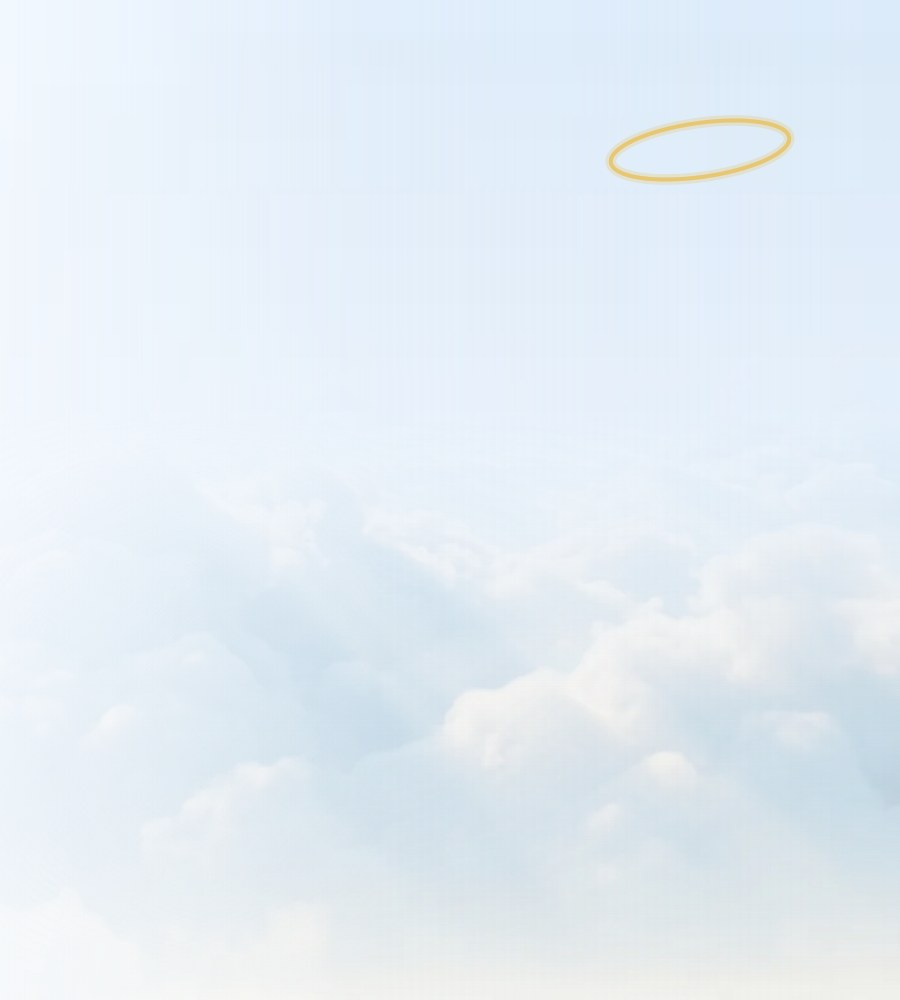
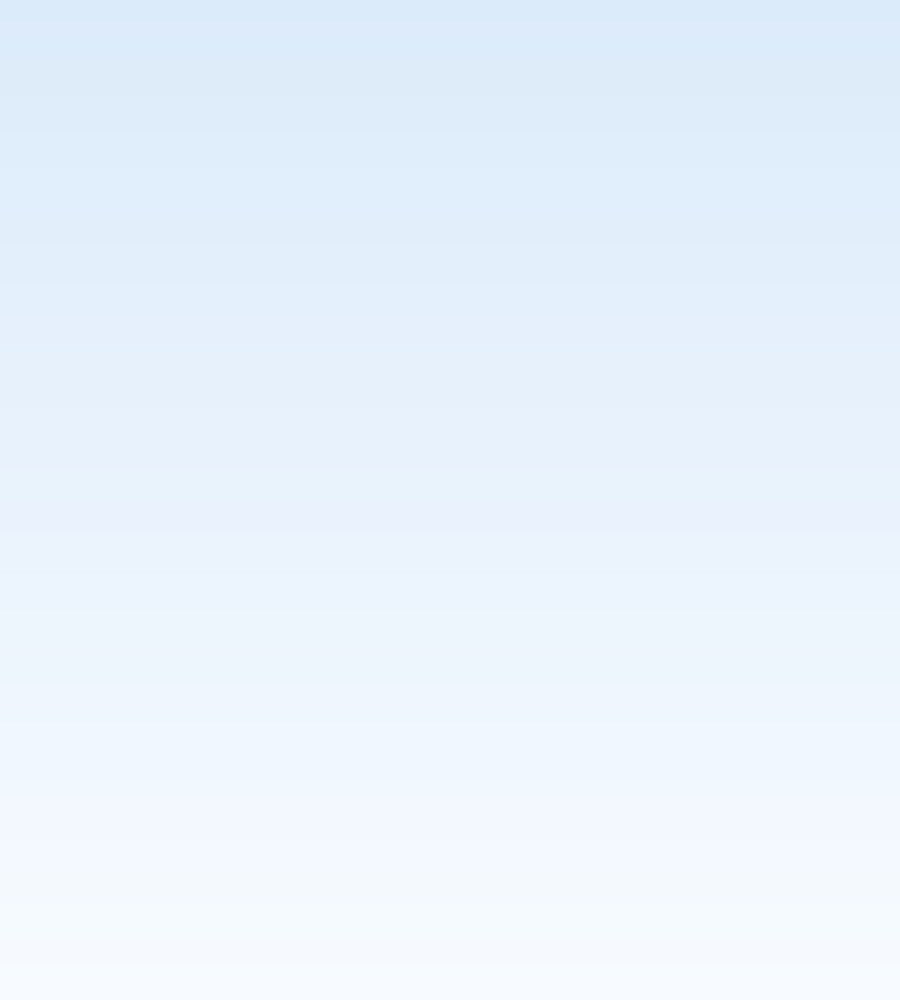
Loja v3.2: header em 1 linha, slots vazios pro Higgsfield, projetos com foto+link
- CSS v3.2: header desktop em uma linha (logo + busca + menu + icones)
- Assets: hero e banner Impacto vazios (gradiente céu limpo) até as
  fotos definitivas do Higgsfield (decisão do dono no preview)
- pagina-projetos-sociais.html: nomes viram links pros sites oficiais
  (fazenda.org.br / caritas.org.br / pequenocotolengo.org.br — conferir)
  + slots de foto comentados pra subir no editor
- instrucoes v3.2 + passo do Cowork pra republicar a página

Claude-Session: https://claude.ai/code/session_01UBDKhBAM1rZA7wjxvuNsf3

Changed region(s): [[0.3111, 0.62, 1.0, 0.93], [0.6533, 0.093, 0.9022, 0.186], [0.4978, 0.62, 0.5289, 0.651]]

diff --git a/nuvemshop/css-nimbus.css b/nuvemshop/css-nimbus.css
@@ -1,7 +1,10 @@
 /* ==========================================================================
-   NIMBUS x NUVEMSHOP (TEMA MORELIA) — CSS v3.1
+   NIMBUS x NUVEMSHOP (TEMA MORELIA) — CSS v3.2
    Colar em: Loja online > Layout > Personalizar > Edicao de CSS avancada
 
+   v3.2: header em UMA linha (logo + busca + menu + conta/carrinho) no
+   desktop; hero e banner de impacto ficam vazios (gradiente) ate as
+   fotos do Higgsfield.
    v3.1: header sem linha entre a faixa do logo e a do menu (sombra unica),
    logo a ESQUERDA (defina tambem no editor: Layout > Cabecalho > posicao
    do logo = esquerda), barra de servicos mais elegante (uppercase
@@ -353,6 +356,39 @@ a.btn-secondary:empty {
 .head-main [class*="logo-container"] {
   text-align: left;
   justify-content: flex-start;
+}
+
+/* v3.2: header em UMA linha no desktop — logo + busca + menu + icones.
+   Se o editor do Morelia tiver a opcao "menu ao lado do logo", PREFIRA
+   ela e mantenha estas regras como reforco. A estrutura interna varia
+   por versao do tema; se algo desalinhar, me mande print que eu ajusto. */
+@media (min-width: 992px) {
+  .head-main {
+    display: flex;
+    align-items: center;
+    flex-wrap: nowrap;
+    gap: 28px;
+    padding-left: 28px;
+    padding-right: 28px;
+  }
+  .head-main > * {
+    flex: 0 0 auto;
+  }
+  .head-main nav,
+  .head-main [class*="desktop-nav"] {
+    flex: 1 1 auto;
+    min-width: 0;
+  }
+  .head-main .nav-list,
+  .head-main nav ul,
+  .head-main [class*="nav-list"] {
+    display: flex;
+    align-items: center;
+    justify-content: center;
+    gap: 26px;
+    flex-wrap: nowrap;
+    margin: 0;
+  }
 }
 
 .head-main .logo img,

diff --git a/nuvemshop/pagina-projetos-sociais.html b/nuvemshop/pagina-projetos-sociais.html
@@ -1,3 +1,8 @@
+<!-- v3.2 — FOTOS E LINKS DOS PROJETOS:
+     1) Os nomes dos projetos agora sao LINKS pros sites oficiais (abrem em nova aba).
+        Confirme os enderecos antes de publicar: fazenda.org.br | caritas.org.br | pequenocotolengo.org.br
+     2) Cada card tem um slot de FOTO comentado. Salve uma foto oficial do site do projeto,
+        suba pelo editor de paginas da Nuvemshop (icone de imagem) e descomente/ajuste a linha. -->
 <p style="font-size:1.05em; color:#1b2733;">Toda peça NIMBUS deixa algo além da roupa. Em cada pedido, 10% do lucro vai para um projeto social, e quem escolhe é você, no checkout. Nesta página, você conhece quem recebe: Fazenda da Esperança, Cáritas Brasileira e Pequeno Cotolengo.</p>
 
 <h2 style="color:#0b2360;">Como funciona</h2>
@@ -12,17 +17,20 @@
 <h2 style="color:#0b2360;">Os projetos</h2>
 
 <div style="background:#f7fbff; border:1px solid #dcebfa; border-left:4px solid #e9c46a; border-radius:8px; padding:20px 24px; margin:16px 0;">
-  <h3 style="color:#0b2360; margin-top:0;">Fazenda da Esperança</h3>
+  <!-- <img src="URL_DA_FOTO_AQUI" alt="Fazenda da Esperança" style="width:100%; border-radius:8px; margin:0 0 14px;"> -->
+  <h3 style="color:#0b2360; margin-top:0;"><a href="https://fazenda.org.br" target="_blank" rel="noopener" style="color:#0b2360; text-decoration:underline; text-decoration-color:#e9c46a; text-underline-offset:4px;">Fazenda da Esperança</a> <span style="font-size:0.75em;">&#8599;</span></h3>
   <p style="margin-bottom:0;">Comunidade católica dedicada à recuperação de dependentes químicos. Nasceu em Guaratinguetá, no interior de São Paulo, e hoje está presente no Brasil inteiro. O caminho proposto une trabalho, convivência e espiritualidade, devolvendo dignidade a quem recomeça.</p>
 </div>
 
 <div style="background:#f7fbff; border:1px solid #dcebfa; border-left:4px solid #e9c46a; border-radius:8px; padding:20px 24px; margin:16px 0;">
-  <h3 style="color:#0b2360; margin-top:0;">Cáritas Brasileira</h3>
+  <!-- <img src="URL_DA_FOTO_AQUI" alt="Cáritas Brasileira" style="width:100%; border-radius:8px; margin:0 0 14px;"> -->
+  <h3 style="color:#0b2360; margin-top:0;"><a href="https://caritas.org.br" target="_blank" rel="noopener" style="color:#0b2360; text-decoration:underline; text-decoration-color:#e9c46a; text-underline-offset:4px;">Cáritas Brasileira</a> <span style="font-size:0.75em;">&#8599;</span></h3>
   <p style="margin-bottom:0;">Organismo da CNBB, a Conferência Nacional dos Bispos do Brasil. É uma rede de solidariedade que atua com populações vulneráveis em todo o país, da assistência emergencial ao trabalho de base nas comunidades.</p>
 </div>
 
 <div style="background:#f7fbff; border:1px solid #dcebfa; border-left:4px solid #e9c46a; border-radius:8px; padding:20px 24px; margin:16px 0;">
-  <h3 style="color:#0b2360; margin-top:0;">Pequeno Cotolengo</h3>
+  <!-- <img src="URL_DA_FOTO_AQUI" alt="Pequeno Cotolengo" style="width:100%; border-radius:8px; margin:0 0 14px;"> -->
+  <h3 style="color:#0b2360; margin-top:0;"><a href="https://pequenocotolengo.org.br" target="_blank" rel="noopener" style="color:#0b2360; text-decoration:underline; text-decoration-color:#e9c46a; text-underline-offset:4px;">Pequeno Cotolengo</a> <span style="font-size:0.75em;">&#8599;</span></h3>
   <p style="margin-bottom:0;">Obra católica fundada no carisma de Dom Orione. Acolhe pessoas com deficiência em situação de vulnerabilidade, oferecendo moradia, cuidado e convivência. Um trabalho silencioso, feito todos os dias, com quem mais precisa.</p>
 </div>
 

diff --git a/nuvemshop/instrucoes.md b/nuvemshop/instrucoes.md
@@ -1,4 +1,9 @@
-# Loja Nuvemshop — Guia de aplicação v3 (Impulso · tema Morelia)
+# Loja Nuvemshop — Guia de aplicação v3.2 (Impulso · tema Morelia)
+
+> **v3.2:** header em UMA linha (logo + busca + menu + conta/carrinho — CSS + opção do editor);
+> hero e banner Impacto ficam **vazios** (gradiente céu) até as fotos do Higgsfield
+> (`prompts-higgsfield-loja.md`); página Projetos Sociais ganhou **links oficiais** nos nomes e
+> **slots de foto** (ver §5).
 
 Redesign v3 (feedback de 2026-07-02): loja **clara do início ao fim** (céu), **sem newsletter**,
 hero curto que cabe na tela (e não copia a landing), tiles das 3 coleções, rodapé claro, fontes
@@ -58,6 +63,11 @@ Ritmo: hero curto → serviços → coleções → prateleira → banner → pra
 
 ## 5. Páginas + menu (se ainda não fez)
 - Páginas → Criar → **"Projetos Sociais"** (modo HTML `< >`) = `pagina-projetos-sociais.html`.
+  **v3.2:** os nomes dos projetos agora são **links** pros sites oficiais (fazenda.org.br ·
+  caritas.org.br · pequenocotolengo.org.br — **confirme os 3 endereços** antes de publicar) e cada
+  card tem um **slot de foto comentado**: salve uma foto oficial do site do projeto, suba pelo
+  editor de páginas (ícone de imagem) e descomente a linha do `<img>`. Se preferir, me manda as
+  fotos que eu recorto e te devolvo prontas.
 - **"Sobre a NIMBUS"** = `pagina-sobre.html`. Crie a "Projetos Sociais" **antes**: copie a URL dela e
   troque o `href="/pagina/projetos-sociais"` do link interno pela URL real (o padrão já serve se o
   slug ficar `projetos-sociais`).

diff --git a/cowork-loja-v3-prompt.md b/cowork-loja-v3-prompt.md
@@ -61,6 +61,13 @@ Texto: 10% do lucro do seu pedido vai para o projeto social que você escolher. 
 PASSO 5 — Rodapé
 Se houver campo de tagline/descrição: "Fé, design e propósito. Acima de tudo."
 
+PASSO 6 — Página Projetos Sociais (versão v3.2)
+1. Abra https://raw.githubusercontent.com/Movits/nimbus/main/nuvemshop/pagina-projetos-sociais.html
+   e copie TUDO.
+2. Painel: Páginas → edite a página "Projetos Sociais" existente (ou crie) → modo HTML < > →
+   substitua o conteúdo pelo copiado. Os nomes dos projetos são links pros sites oficiais; os
+   slots de foto ficam comentados até o dono subir as imagens.
+
 RELATÓRIO FINAL
 Liste: o que aplicou, o que não encontrou (nome exato das seções disponíveis no editor), qualquer
 erro do CSS. Depois abra loja.nimbuswear.com.br e tire SCREENSHOTS: home desktop, home mobile